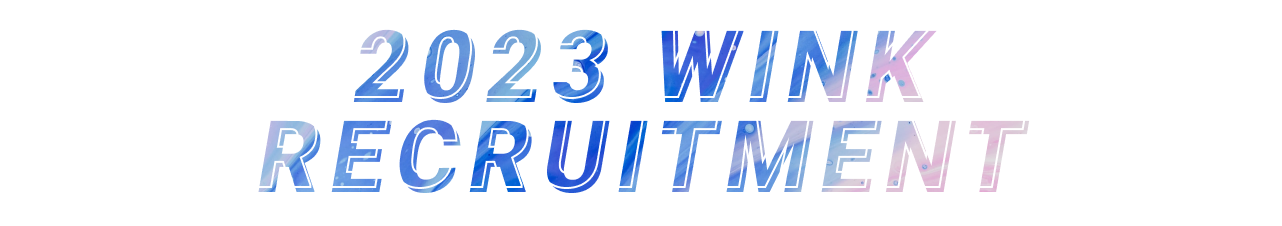
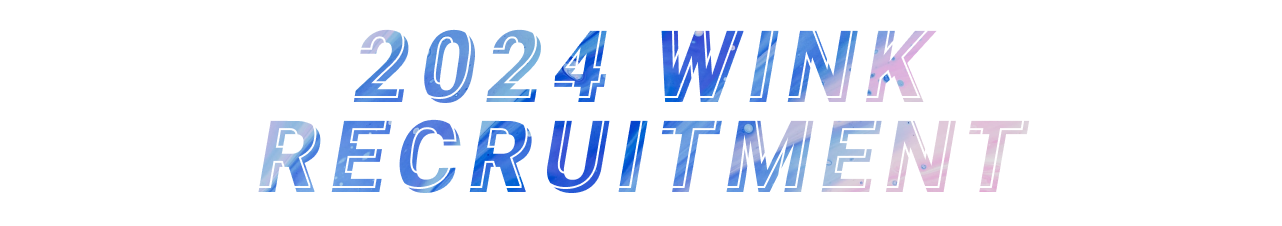
hotfix. apply recruitment 2024 img

diff --git a/src/pages/apply.tsx b/src/pages/apply.tsx
@@ -22,7 +22,7 @@ const Apply: NextPage = () => {
             alt={"rocket iamge"}
             width={500}
           />
-          <Image className="pb-[82px]" src={title} alt={"2023 WINK RECRUITMENT"} />
+          <Image className="pb-[82px]" src={title} alt={"2024 WINK RECRUITMENT"} />
           <div/>
           <Image
             className="absolute bottom-1 lg:bottom-7 animate-bounce h-12 cursor-pointer"
